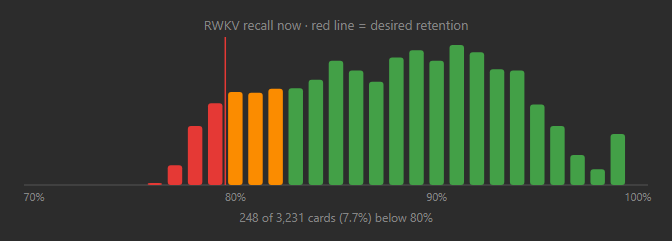
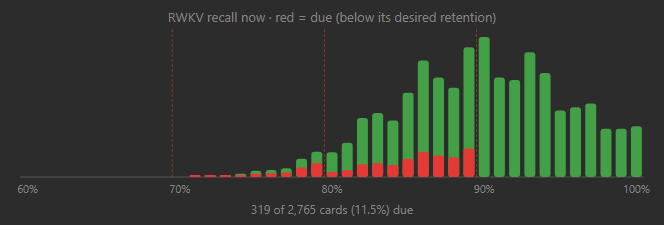
RWKV Recall Histogram 1.2.0
Colour each bar by the cards RWKV counts as due against their own
desired retention, so per-card targets (Dynamic Desired Retention) are
shown correctly. Dashed lines mark the desired retentions in use.
Works unchanged without a per-card add-on; falls back to the single
configured line on fork builds without the is:rwkv:due search.

Changed region(s): [[0.2108, 0.1556, 0.994, 0.9644], [0.241, 0.0622, 0.753, 0.1244], [0.0301, 0.7778, 0.0904, 0.8711]]

diff --git a/chart.js b/chart.js
@@ -1,26 +1,36 @@
-// Lays the histogram out in a W x H box: the baseline, one bar per percent of
-// RWKV R and the desired-retention line. Shared by the deck list chart and the
-// reviewer's miniature. Returns null when no card has a recall yet.
+// Lays the histogram out in a W x H box: the baseline and one bar per percent
+// of RWKV R. Shared by the deck list chart and the reviewer's miniature.
+// Returns null when no card has a recall yet.
+//
+// With data.due (cards RWKV counts as due, per percent) the red part of each
+// bar is the cards at or below their own desired retention, and data.targets
+// are drawn as faint lines. Without it, the chart falls back to one line at
+// data.target and colours whole bars by which side of it they are on.
 window.__rwkvRecallPlot = function (data, W, H, pad) {
     const target = data.target;
-    const entries = Object.entries(data.buckets)
+    const perCard = !!data.due;
+    const clean = (buckets) => Object.entries(buckets || {})
         .map(([key, count]) => [Math.min(100, Math.max(0, Number(key))), count])
         .filter(([, count]) => count > 0);
+    const entries = clean(data.buckets);
     if (!entries.length) return null;
+    const targets = perCard ? (data.targets || []) : [target];
 
     // Start at the configured left edge, or further right when the lowest
-    // cards leave it empty; the desired retention always stays in view.
-    const lowest = Math.min(target, ...entries.map(([percent]) => percent));
+    // cards leave it empty; the desired retentions always stay in view.
+    const lowest = Math.min(...targets, ...entries.map(([percent]) => percent));
     const min = Math.max(data.min, Math.min(90, Math.floor((lowest - 1) / 10) * 10));
     // Everything below the left edge is piled onto the first bar.
     const clipped = entries.some(([percent]) => percent < min);
     const counts = new Array(101 - min).fill(0);
+    const due = new Array(101 - min).fill(0);
     let total = 0, below = 0;
     for (const [percent, count] of entries) {
         counts[Math.max(percent, min) - min] += count;
         total += count;
-        if (percent < target) below += count;
+        if (!perCard && percent < target) below += count;
     }
+    for (const [percent, count] of clean(data.due)) due[Math.max(percent, min) - min] += count;
 
     const plotW = W - pad.left - pad.right, plotH = H - pad.top - pad.bottom;
     const slot = plotW / counts.length;
@@ -28,25 +38,36 @@ window.__rwkvRecallPlot = function (data, W, H, pad) {
     const base = pad.top + plotH;
     const x = (percent) => pad.left + (percent - min + 0.5) * slot;
     const tone = (percent) =>
-        percent < target ? "rr-low" : percent < target + data.near ? "rr-near" : "rr-ok";
+        perCard ? "rr-ok" : percent < target ? "rr-low" : percent < target + data.near ? "rr-near" : "rr-ok";
+    const rect = (cls, percent, height) =>
+        `<rect class="${cls}" x="${(x(percent) - slot * 0.36).toFixed(2)}" y="${(base - height).toFixed(2)}" width="${(slot * 0.72).toFixed(2)}" height="${height.toFixed(2)}" rx="${Math.min(3, slot * 0.36, height / 2).toFixed(2)}"/>`;
 
     let bars = "";
     counts.forEach((count, index) => {
         if (!count) return;
         const percent = min + index;
         const height = Math.max(2, (count / peak) * plotH);
-        const label = (index === 0 && clipped ? "≤" : "") + percent + "%: " + count.toLocaleString() + " cards";
-        bars += `<rect class="${tone(percent)}" x="${(x(percent) - slot * 0.36).toFixed(2)}" y="${(base - height).toFixed(2)}" width="${(slot * 0.72).toFixed(2)}" height="${height.toFixed(2)}" rx="${Math.min(3, slot * 0.36).toFixed(2)}"><title>${label}</title></rect>`;
+        // the two series are scored a moment apart, so a card can change bar
+        const dueHere = Math.min(count, due[index]);
+        below += dueHere;
+        let label = (index === 0 && clipped ? "≤" : "") + percent + "%: " + count.toLocaleString() + " cards";
+        if (perCard && dueHere) label += ", " + dueHere.toLocaleString() + " due";
+        bars += "<g>" + rect(dueHere === count && perCard ? "rr-low" : tone(percent), percent, height);
+        if (dueHere && dueHere < count) bars += rect("rr-low", percent, Math.max(2, (dueHere / count) * height));
+        bars += `<title>${label}</title></g>`;
     });
 
-    // The line sits on the boundary between "below target" and "at target".
-    const lineX = Math.max(pad.left, x(target) - slot / 2).toFixed(2);
+    // A line sits on the boundary between "below target" and "at target".
+    let lines = "";
+    for (const mark of targets) {
+        const lineX = Math.max(pad.left, x(mark) - slot / 2).toFixed(2);
+        lines += `<line class="${perCard ? "rr-tier" : "rr-target"}" x1="${lineX}" x2="${lineX}" y1="0" y2="${base}"/>`;
+    }
+    const axis = `<line class="rr-axis" x1="${pad.left}" x2="${W - pad.right}" y1="${base}" y2="${base}"/>`;
     return {
-        marks:
-            `<line class="rr-axis" x1="${pad.left}" x2="${W - pad.right}" y1="${base}" y2="${base}"/>` +
-            bars +
-            `<line class="rr-target" x1="${lineX}" x2="${lineX}" y1="0" y2="${base}"/>`,
-        x, min, clipped, total, below,
+        // tier lines go behind the bars, the single target line in front
+        marks: perCard ? axis + lines + bars : axis + bars + lines,
+        x, min, clipped, total, below, perCard,
     };
 };
 
@@ -56,7 +77,8 @@ window.__rwkvRecallSet = function (data, error) {
     const root = document.getElementById("rwkv-recall");
     if (!root) return;
 
-    const title = '<div class="rr-title">RWKV recall now · red line = desired retention</div>';
+    const title = '<div class="rr-title">RWKV recall now · ' +
+        (data.due ? "red = due (below its desired retention)" : "red line = desired retention") + "</div>";
     if (!data.buckets) {
         root.innerHTML = title + '<div class="rr-note">' + (error || "Loading…") + "</div>";
         return;
@@ -82,5 +104,6 @@ window.__rwkvRecallSet = function (data, error) {
         plot.marks +
         ticks +
         "</svg>" +
-        `<div class="rr-note">${plot.below.toLocaleString()} of ${plot.total.toLocaleString()} cards (${share}%) below ${+data.target.toFixed(1)}%</div>`;
+        `<div class="rr-note">${plot.below.toLocaleString()} of ${plot.total.toLocaleString()} cards (${share}%) ` +
+        (plot.perCard ? "due" : `below ${+data.target.toFixed(1)}%`) + "</div>";
 };

diff --git a/chart.css b/chart.css
@@ -35,6 +35,12 @@
     stroke: #e53935;
     stroke-width: 1.5;
 }
+.rr-tier {
+    stroke: #e53935;
+    stroke-opacity: 0.55;
+    stroke-width: 1;
+    stroke-dasharray: 3 2;
+}
 #rwkv-recall .rr-tick {
     fill: currentColor;
     font-size: 11px;

diff --git a/__init__.py b/__init__.py
@@ -2,8 +2,9 @@
 
 The RWKV scheduler owns the prediction. This add-on asks the fork for the same
 per-percent RWKV retrievability series the Stats screen uses and draws it under
-the deck list: x is RWKV R now, y is the number of cards at that R, and the
-vertical line is the desired retention.
+the deck list: x is RWKV R now, y is the number of cards at that R. The red
+part of each bar is the cards RWKV counts as due, each against its own desired
+retention, so per-card targets (Dynamic Desired Retention) are respected.
 
 The reviewer's bottom bar shows the same bars as a small text-free chart.
 """
@@ -33,9 +34,16 @@ DEFAULTS: dict[str, Any] = {
 }
 PENDING_RETRY_MS = 3000
 MAX_PENDING_RETRIES = 40
+# The fork's search for review cards at or below their own desired retention.
+DUE_SEARCH = "is:rwkv:due"
+# More distinct targets than this is a continuous rule, not a set of tiers.
+MAX_TARGET_MARKS = 8
 
 # Last histogram, kept so the deck list never has to wait for the scheduler.
 _buckets: dict[int, int] | None = None
+_due_buckets: dict[int, int] | None = None
+_targets: list[float] = []
+_due_search_failed = False
 _computed_at = 0.0
 _in_flight = False
 _stale = False
@@ -78,7 +86,7 @@ def _search() -> str:
     return value if isinstance(value, str) else DEFAULTS["search"]
 
 
-def _rwkv_buckets(search: str) -> dict[int, int] | None:
+def _rwkv_series(search: str) -> dict[int, int] | None:
     """Cards per whole percent of RWKV R; None while the scheduler is not ready.
 
     Not ready covers warm-up, a busy backend and a state cache that is still
@@ -99,9 +107,78 @@ def _rwkv_buckets(search: str) -> dict[int, int] | None:
     }
 
 
+def _target_marks() -> list[float]:
+    """Distinct desired retentions (percent) the fork last resolved for a queue.
+
+    Best effort: with a Dynamic Desired Retention provider it is empty until a
+    deck's queue has been scored, and for a rule that gives nearly every card
+    its own target.
+    """
+    try:
+        from aqt import rwkv_scheduler
+
+        maps = list(getattr(rwkv_scheduler, "_rwkv_review_queue_target_maps", {}).values())
+        marks = {round(float(t) * 100, 1) for m in maps for t in list(m.values())}
+    except Exception:
+        return []
+    marks = {mark for mark in marks if 0 < mark < 100}
+    if not marks:
+        marks = _preset_marks()
+    return sorted(marks) if len(marks) <= MAX_TARGET_MARKS else []
+
+
+def _preset_marks() -> set[float]:
+    """Desired retention of every RWKV-Instant preset that has cards.
+
+    Used before any queue has been scored. Left empty when a Dynamic Desired
+    Retention provider is loaded, as it may give cards other targets.
+    """
+    try:
+        from aqt import rwkv_scheduler
+
+        if rwkv_scheduler._dynamic_desired_retention_info_for_card_ids_resolver() is not None:
+            return set()
+        marks = set()
+        for deck in mw.col.decks.all_names_and_ids(include_filtered=False):
+            config = mw.col.decks.config_dict_for_deck_id(deck.id)
+            if rwkv_scheduler._rwkv_review_instant_order_enabled(
+                config
+            ) and mw.col.db.scalar("select 1 from cards where did = ? limit 1", deck.id):
+                target = rwkv_scheduler._rwkv_target_retention_for_deck_config(config)
+                marks.add(round(float(target) * 100, 1))
+        return {mark for mark in marks if 0 < mark < 100}
+    except Exception:
+        return set()
+
+
+def _rwkv_buckets(search: str) -> tuple[dict[int, int], dict[int, int] | None, list[float]] | None:
+    """All cards and due cards per percent of R, plus the targets in use.
+
+    The due series is None on a fork without the due search; the chart then
+    falls back to the single configured desired-retention line.
+    """
+    global _due_search_failed
+    everything = _rwkv_series(search)
+    if everything is None:
+        return None
+    due = None
+    if not _due_search_failed:
+        try:
+            due = _rwkv_series(f"({search}) {DUE_SEARCH}" if search.strip() else DUE_SEARCH)
+        except Exception as error:
+            _due_search_failed = True
+            print(f"RWKV Recall Histogram: due search unavailable: {error}")
+        else:
+            if due is None:
+                return None
+    return everything, due, _target_marks() if due is not None else []
+
+
 def _payload() -> str:
     data = dict(_settings())
     data["buckets"] = _buckets
+    data["due"] = _due_buckets
+    data["targets"] = _targets
     return json.dumps(data)
 
 
@@ -140,19 +217,20 @@ def _refresh(force: bool = False) -> None:
     search = _search()
 
     def done(future) -> None:
-        global _buckets, _computed_at, _in_flight, _pending_retries, _stale
+        global _buckets, _due_buckets, _targets
+        global _computed_at, _in_flight, _pending_retries, _stale
         _in_flight = False
         if _stale:
             _stale = False
             QTimer.singleShot(0, _retry_pending)
         try:
-            buckets = future.result()
+            result = future.result()
         except Exception as error:  # never break the deck list
             print(f"RWKV Recall Histogram: {error}")
             if _buckets is None:
                 _push("RWKV recall is unavailable")
             return
-        if buckets is None:
+        if result is None:
             if _pending_retries < MAX_PENDING_RETRIES:
                 _pending_retries += 1
                 QTimer.singleShot(PENDING_RETRY_MS, _retry_pending)
@@ -160,7 +238,7 @@ def _refresh(force: bool = False) -> None:
                 _push("RWKV recall is unavailable")
             return
         _pending_retries = 0
-        _buckets = buckets
+        _buckets, _due_buckets, _targets = result
         _computed_at = time.monotonic()
         _push()
 
@@ -204,8 +282,10 @@ def _on_question(*_args) -> None:
 
 
 def _on_profile_close() -> None:
-    global _buckets, _computed_at, _pending_retries
+    global _buckets, _due_buckets, _targets, _computed_at, _pending_retries
     _buckets = None
+    _due_buckets = None
+    _targets = []
     _computed_at = 0.0
     _pending_retries = 0
 

diff --git a/README.md b/README.md
@@ -1,9 +1,14 @@
 # RWKV Recall Histogram
 
 An Anki desktop add-on that shows how your cards are spread across **RWKV
-retrievability (R) right now**: one bar per percent of R, with a red line at
-your desired retention. Cards below the line are red, cards just above it are
-orange, the rest are green.
+retrievability (R) right now**: one bar per percent of R. The red part of each
+bar is the cards that are due, meaning at or below their own desired retention;
+the rest of the bar is green.
+
+Each card is judged against its own target, so per-card desired retention (for
+example from the Dynamic Desired Retention add-on) is shown correctly: a card
+at 80% with an 85% target is red, a card at 65% with a 60% target is green.
+Dashed lines mark the desired retentions in use.
 
 **[Download RWKV-Recall-Histogram.ankiaddon](https://github.com/sommepo/rwkv-recall-histogram/releases/latest/download/RWKV-Recall-Histogram.ankiaddon)**
 
@@ -15,7 +20,7 @@ In the review screen's bottom bar, beside "Edit", without any text:
 
 ![Histogram in the reviewer's bottom bar](screenshots/reviewer.png)
 
-The screenshots use sample data.
+The screenshots use sample data, with desired retentions of 70%, 80% and 90%.
 
 **Requires the RWKV Instant Anki fork.** Tested on Windows with the
 `26.9b3+fsrs7` build of [JSchoreels/anki](https://github.com/JSchoreels/anki).
@@ -35,6 +40,19 @@ The RWKV scheduler owns the prediction. The add-on asks the fork for the same
 per-percent retrievability series the Stats screen uses and only draws it; it
 does not change scheduling, card data, or deck options.
 
+- "Due" is the fork's own `is:rwkv:due` search: review cards in RWKV-Instant
+  decks whose R is at or below their desired retention and that pass the
+  same-day and repeat-spacing rules. Daily review limits and the minimum
+  reviews per day setting are not applied.
+- It works the same with or without a per-card desired-retention add-on, and
+  needs no setting. Without one, every card's target is its preset's desired
+  retention, so there is one dashed line per preset and the bars left of it
+  are red.
+- With such an add-on, the dashed lines are the desired retentions the fork
+  last resolved for a review queue. They appear once a deck's queue has been
+  scored, and are left out when a rule gives nearly every card its own target.
+- On a fork build without the due search, the chart falls back to one red line
+  at `desired_retention`: cards below it are red, cards just above it orange.
 - The deck list chart is recounted in the background and reused for
   `refresh_seconds`, so the deck list never waits for the scheduler.
 - The review screen chart is recounted in the background on every card. It
@@ -47,10 +65,10 @@ does not change scheduling, card data, or deck options.
 
 **Tools → Add-ons → RWKV Recall Histogram → Config**
 
-- `desired_retention`: where the red line sits; cards below it are red. `0.80` or `80`.
+- `desired_retention`: fallback only. Where the red line sits when the fork cannot report due cards. `0.80` or `80`.
 - `search`: which cards are counted (any Anki search). The default leaves out suspended cards.
 - `min_percent`: lowest left edge of the chart. Cards below it are piled onto the first bar; the chart starts further right when there are no cards that low.
-- `near_target_points`: cards this many points above the line are orange, the rest green.
+- `near_target_points`: fallback only. Cards this many points above the line are orange, the rest green.
 - `refresh_seconds`: how long a count is reused before the deck list asks RWKV again.
 - `show_in_reviewer`: also show the small text-free chart in the review screen's bottom bar.
 

diff --git a/config.md b/config.md
@@ -1,6 +1,8 @@
-- `desired_retention`: where the red line sits; cards below it are red. `0.80` or `80`.
+The red part of each bar is the cards RWKV counts as due, each against its own desired retention. No setting is needed for that.
+
+- `desired_retention`: fallback only. Where the red line sits when the fork cannot report due cards. `0.80` or `80`.
 - `search`: which cards are counted (any Anki search). Default leaves out suspended cards.
 - `min_percent`: lowest left edge of the chart. Cards below it are piled onto the first bar; the chart starts further right when there are no cards that low.
-- `near_target_points`: cards this many points above the line are orange, the rest green.
+- `near_target_points`: fallback only. Cards this many points above the line are orange, the rest green.
 - `refresh_seconds`: how long a count is reused before the deck list asks RWKV again. The review screen recounts on every card.
 - `show_in_reviewer`: also show a small text-free chart in the review screen's bottom bar, beside "Edit".
